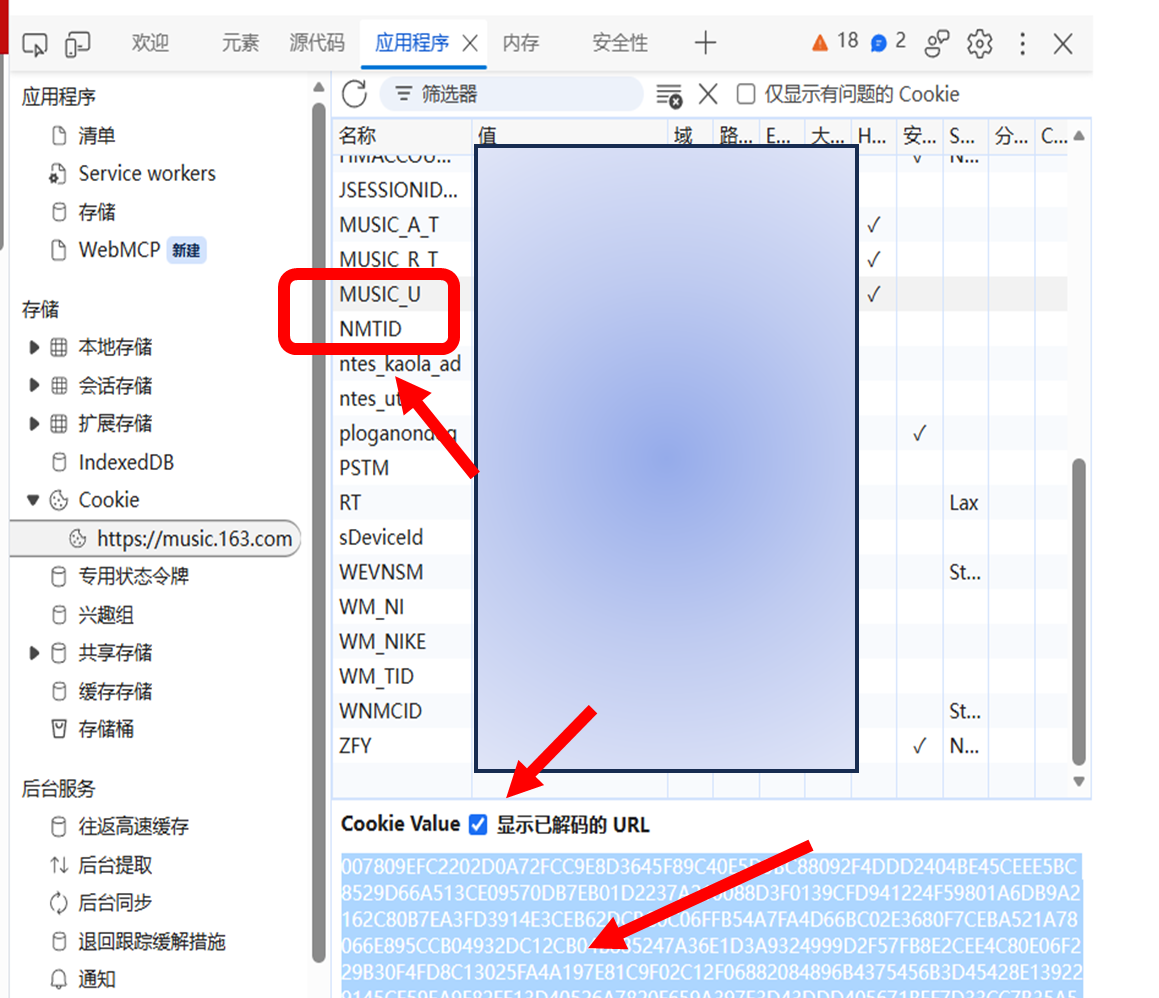
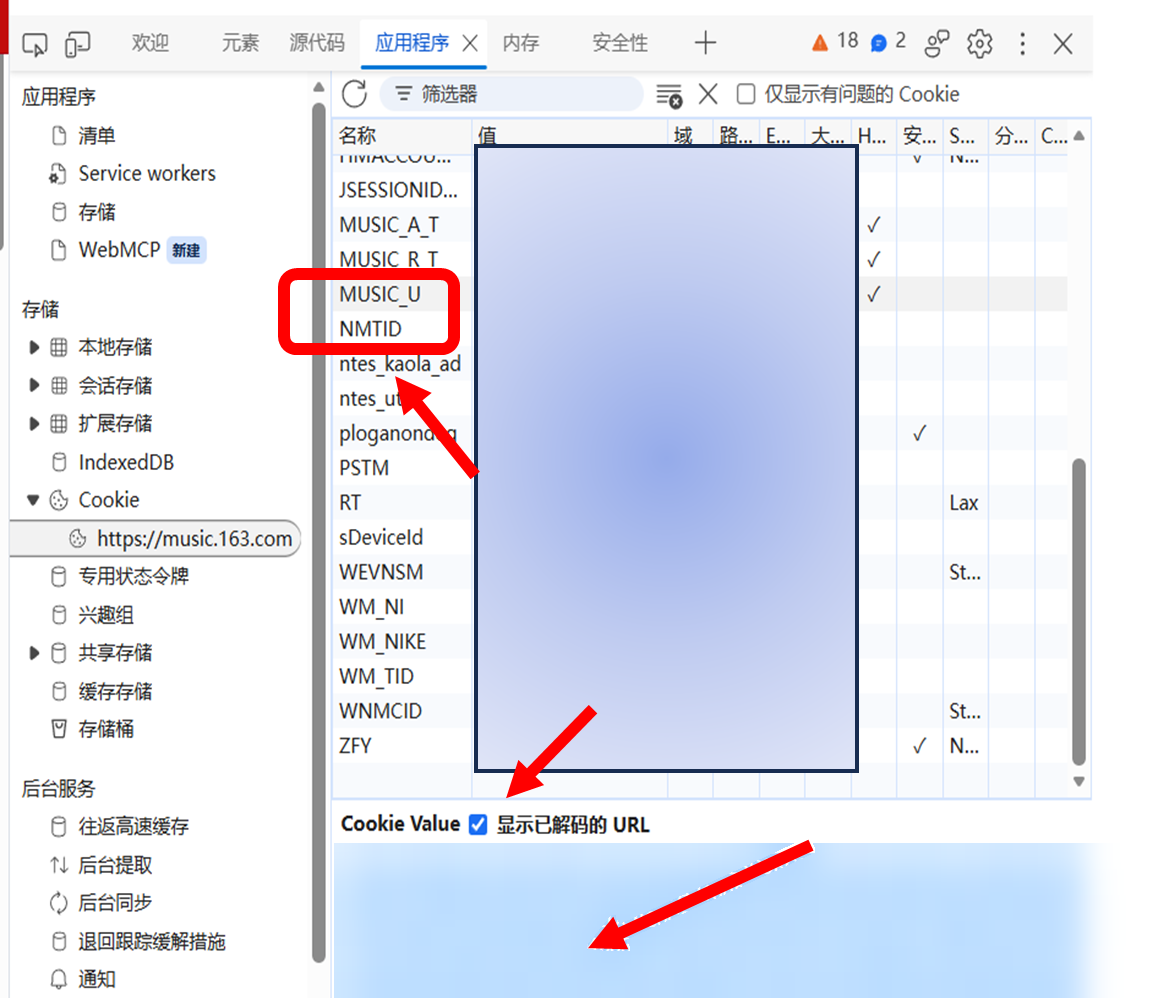
fix(credentials): 处理凭证中心评审意见（#2745）
- 抹掉 step-5 截图底部 Cookie Value 面板里的真实网易云凭证（codex P1），
  并补一条像素级契约测试挡住未脱敏截图再进来。
- cookieStringMode 平台（YouTube 要整条 Cookie 请求头）隐藏「逐字段复制
  Cookie Value」的通用教程入口，避免按教程粘错形状的凭证（codex P2）。
- 隐私遮罩期间顺延的成功/失败表情加 4s 上限，不再无限自我重排（coderabbit）。
- 选项卡补 aria-controls，面板补 role="tabpanel"（coderabbit）。
- pt.json 的 7 处 `Target:` 本地化为 `Destino:`（coderabbit）。
- YouTube 教程 HTML 结构契约从只测 zh-CN 扩到全部 8 个语言包（coderabbit）。

Changed region(s): [[0.2796, 0.8387, 0.9629, 1.0]]

diff --git a/templates/cookies_login.html b/templates/cookies_login.html
@@ -1389,22 +1389,22 @@
 
         <!-- Platform tab bar (uses same class names as JS expects) -->
         <div class="platform-bar tabs" role="tablist">
-            <button class="tab-btn active" onclick="switchTab('netease', this)" data-platform="netease" data-i18n="cookiesLogin.netease" role="tab" aria-selected="true">网易云音乐</button>
-            <button class="tab-btn" onclick="switchTab('bilibili', this)" data-platform="bilibili" data-i18n="cookiesLogin.bilibili" role="tab" aria-selected="false">Bilibili</button>
-            <button class="tab-btn" onclick="switchTab('xhh', this)" data-platform="xhh" data-i18n="cookiesLogin.xhh" role="tab" aria-selected="false">小黑盒</button>
-            <button class="tab-btn" onclick="switchTab('youtube', this)" data-platform="youtube" data-i18n="cookiesLogin.youtube" role="tab" aria-selected="false">YouTube</button>
-            <button class="tab-btn" onclick="switchTab('twitch', this)" data-platform="twitch" data-i18n="cookiesLogin.twitch" role="tab" aria-selected="false">Twitch</button>
-            <button class="tab-btn" onclick="switchTab('douyin', this)" data-platform="douyin" data-i18n="cookiesLogin.douyin" role="tab" aria-selected="false">抖音</button>
-            <button class="tab-btn" onclick="switchTab('kuaishou', this)" data-platform="kuaishou" data-i18n="cookiesLogin.kuaishou" role="tab" aria-selected="false">快手</button>
-            <button class="tab-btn" onclick="switchTab('weibo', this)" data-platform="weibo" data-i18n="cookiesLogin.weibo" role="tab" aria-selected="false">微博</button>
-            <button class="tab-btn" onclick="switchTab('twitter', this)" data-platform="twitter" data-i18n="cookiesLogin.twitter" role="tab" aria-selected="false">Twitter/X</button>
-            <button class="tab-btn" onclick="switchTab('reddit', this)" data-platform="reddit" data-i18n="cookiesLogin.reddit" role="tab" aria-selected="false">Reddit</button>
+            <button class="tab-btn active" onclick="switchTab('netease', this)" data-platform="netease" data-i18n="cookiesLogin.netease" role="tab" aria-controls="main-panel" aria-selected="true">网易云音乐</button>
+            <button class="tab-btn" onclick="switchTab('bilibili', this)" data-platform="bilibili" data-i18n="cookiesLogin.bilibili" role="tab" aria-controls="main-panel" aria-selected="false">Bilibili</button>
+            <button class="tab-btn" onclick="switchTab('xhh', this)" data-platform="xhh" data-i18n="cookiesLogin.xhh" role="tab" aria-controls="main-panel" aria-selected="false">小黑盒</button>
+            <button class="tab-btn" onclick="switchTab('youtube', this)" data-platform="youtube" data-i18n="cookiesLogin.youtube" role="tab" aria-controls="main-panel" aria-selected="false">YouTube</button>
+            <button class="tab-btn" onclick="switchTab('twitch', this)" data-platform="twitch" data-i18n="cookiesLogin.twitch" role="tab" aria-controls="main-panel" aria-selected="false">Twitch</button>
+            <button class="tab-btn" onclick="switchTab('douyin', this)" data-platform="douyin" data-i18n="cookiesLogin.douyin" role="tab" aria-controls="main-panel" aria-selected="false">抖音</button>
+            <button class="tab-btn" onclick="switchTab('kuaishou', this)" data-platform="kuaishou" data-i18n="cookiesLogin.kuaishou" role="tab" aria-controls="main-panel" aria-selected="false">快手</button>
+            <button class="tab-btn" onclick="switchTab('weibo', this)" data-platform="weibo" data-i18n="cookiesLogin.weibo" role="tab" aria-controls="main-panel" aria-selected="false">微博</button>
+            <button class="tab-btn" onclick="switchTab('twitter', this)" data-platform="twitter" data-i18n="cookiesLogin.twitter" role="tab" aria-controls="main-panel" aria-selected="false">Twitter/X</button>
+            <button class="tab-btn" onclick="switchTab('reddit', this)" data-platform="reddit" data-i18n="cookiesLogin.reddit" role="tab" aria-controls="main-panel" aria-selected="false">Reddit</button>
         </div>
 
         <!-- Main content card -->
         <div class="content-card">
 
-            <div class="tab-content" id="main-panel">
+            <div class="tab-content" id="main-panel" role="tabpanel" tabindex="0">
 
                 <!-- Tutorial entry -->
                 <a class="tutorial-link" href="/api/auth/guide" target="neko_credential_guide" onclick="return openCredentialGuide(event)">

diff --git a/static/js/cookies_login.js b/static/js/cookies_login.js
@@ -358,6 +358,8 @@ document.addEventListener('DOMContentLoaded', () => {
     const mascotButton = document.querySelector('.char-avatar-wrap');
     const mascotBubble = document.querySelector('.mascot-bubble');
     const reactionClasses = ['mascot-angry', 'mascot-success', 'mascot-failure', 'mascot-curious'];
+    const MASCOT_DEFERRED_RETRY_MS = 500;
+    const MASCOT_DEFERRED_MAX_MS = 4000;
     let mascotReactionTimer = null;
     let mascotDeferredTimer = null;
     let mascotBubbleTimer = null;
@@ -368,18 +370,41 @@ document.addEventListener('DOMContentLoaded', () => {
         reactionClasses.forEach(className => characterBanner?.classList.remove(className));
     };
 
+    const showMascotReaction = (type, duration) => {
+        clearMascotReaction();
+        characterBanner.classList.add(`mascot-${type}`);
+        mascotReactionTimer = window.setTimeout(clearMascotReaction, duration);
+    };
+
+    // 隐私遮罩期间把成功/失败反应顺延到失焦之后，但最多顺延 MASCOT_DEFERRED_MAX_MS：
+    // 不设上限的话，只要用户一直聚焦凭证输入框，定时器就会无限自我重排，
+    // 等失焦时弹出的是几分钟前那次保存的表情。
+    const deferMascotReaction = (type, duration, deadline) => {
+        window.clearTimeout(mascotDeferredTimer);
+        mascotDeferredTimer = null;
+        if (Date.now() >= deadline) return;
+        mascotDeferredTimer = window.setTimeout(() => {
+            mascotDeferredTimer = null;
+            if (!characterBanner) return;
+            if (characterBanner.classList.contains('credential-privacy-active')) {
+                deferMascotReaction(type, duration, deadline);
+                return;
+            }
+            showMascotReaction(type, duration);
+        }, MASCOT_DEFERRED_RETRY_MS);
+    };
+
     window.triggerMascotReaction = (type, duration = 900) => {
         if (!characterBanner) return;
         if (characterBanner.classList.contains('credential-privacy-active')) {
             if (type === 'success' || type === 'failure') {
-                window.clearTimeout(mascotDeferredTimer);
-                mascotDeferredTimer = window.setTimeout(() => window.triggerMascotReaction(type, duration), 500);
+                deferMascotReaction(type, duration, Date.now() + MASCOT_DEFERRED_MAX_MS);
             }
             return;
         }
-        clearMascotReaction();
-        characterBanner.classList.add(`mascot-${type}`);
-        mascotReactionTimer = window.setTimeout(clearMascotReaction, duration);
+        window.clearTimeout(mascotDeferredTimer);
+        mascotDeferredTimer = null;
+        showMascotReaction(type, duration);
     };
 
     mascotButton?.addEventListener('click', (event) => {
@@ -872,7 +897,11 @@ function switchTab(platformKey, btnElement, isReRender = false) {
     currentPlatform = platformKey;
     const config = PLATFORM_CONFIG[platformKey];
     const tutorialBanner = document.querySelector('#main-panel > .tutorial-link');
-    if (tutorialBanner) tutorialBanner.style.display = config.authMode ? 'none' : '';
+    // 通用教程教的是「在 Application 面板逐个字段复制 Cookie Value」，
+    // 对 cookieStringMode 平台（YouTube 要整条 Cookie 请求头）是错的流程，
+    // 这些平台改由自己的 instruction 文案指路，所以这里一并隐藏。
+    const hideTutorial = Boolean(config.authMode || config.cookieStringMode);
+    if (tutorialBanner) tutorialBanner.style.display = hideTutorial ? 'none' : '';
     const encryptRow = document.getElementById('encrypt-toggle')?.parentElement;
     if (encryptRow) encryptRow.style.display = config.authMode ? 'none' : '';
     // 更新选项卡文本

diff --git a/tests/unit/test_window_pin_static_contracts.py b/tests/unit/test_window_pin_static_contracts.py
@@ -173,6 +173,76 @@ def test_credentials_page_opens_the_universal_guide_in_a_named_window():
     assert "window.open(guideUrl.toString(), windowName, features)" in script
 
 
+def test_credentials_universal_guide_hides_for_cookie_string_platforms():
+    """通用教程教的是逐字段复制 Cookie Value，对整条 Cookie 请求头的平台是错流程。"""
+    script = read_text("static/js/cookies_login.js")
+
+    assert "cookieStringMode: true" in script
+    assert "const hideTutorial = Boolean(config.authMode || config.cookieStringMode);" in script
+    assert "tutorialBanner.style.display = hideTutorial ? 'none' : ''" in script
+
+
+def test_credentials_tabs_are_wired_to_the_single_tab_panel():
+    template = read_text("templates/cookies_login.html")
+
+    tab_buttons = re.findall(r'<button class="tab-btn[^>]*>', template)
+    assert len(tab_buttons) == 10
+    for button in tab_buttons:
+        assert 'role="tab"' in button, button
+        assert 'aria-controls="main-panel"' in button, button
+    assert re.search(
+        r'<div class="tab-content" id="main-panel"[^>]*role="tabpanel"', template
+    )
+
+
+def test_credentials_deferred_mascot_reaction_has_a_bounded_deadline():
+    """隐私遮罩期间顺延反应必须有上限，否则失焦时弹出的是几分钟前那次的表情。"""
+    script = read_text("static/js/cookies_login.js")
+
+    assert "const MASCOT_DEFERRED_MAX_MS = 4000;" in script
+    assert "deferMascotReaction(type, duration, Date.now() + MASCOT_DEFERRED_MAX_MS)" in script
+
+    defer_body = re.search(
+        r"const deferMascotReaction = \(type, duration, deadline\) => \{"
+        r"(?P<body>[\s\S]*?)\n    \};",
+        script,
+    )
+    assert defer_body
+    # 重排必须沿用同一个 deadline，重新取一次 Date.now() 等于上限失效。
+    assert "if (Date.now() >= deadline) return;" in defer_body.group("body")
+    assert "deferMascotReaction(type, duration, deadline);" in defer_body.group("body")
+    assert "Date.now() + MASCOT_DEFERRED_MAX_MS" not in defer_body.group("body")
+
+
+def test_credentials_guide_screenshot_keeps_no_readable_cookie_value():
+    """step-5 截图底部的 Cookie Value 面板必须是抹掉的，不能留真实凭证。"""
+    import numpy as np
+    from PIL import Image, ImageFilter
+
+    asset = PROJECT_ROOT / "static" / "images" / "cookies" / "guide" / "step-5-value.png"
+    with Image.open(asset) as image:
+        pane = image.convert("RGB").crop((334, 843, image.width, image.height))
+
+    rgb = np.asarray(pane).astype(int)
+    # 面板上压着红色标注箭头，它本来就是高对比度的，先连边缘一起排除。
+    red = (
+        (rgb[:, :, 0] > 140)
+        & (rgb[:, :, 1] < 110)
+        & (rgb[:, :, 2] < 110)
+        & (rgb[:, :, 0] - rgb[:, :, 1] > 60)
+    )
+    keep = ~np.asarray(
+        Image.fromarray((red * 255).astype("uint8")).filter(ImageFilter.MaxFilter(9))
+    ).astype(bool)
+
+    # 字形靠相邻像素的高对比度成立；抹干净之后剩下的只有平滑渐变。
+    gray = np.asarray(pane.convert("L")).astype(int)
+    horizontal = np.abs(np.diff(gray, axis=1))[keep[:, :-1] & keep[:, 1:]]
+    vertical = np.abs(np.diff(gray, axis=0))[keep[:-1, :] & keep[1:, :]]
+    contrast = int(max(horizontal.max(), vertical.max()))
+    assert contrast < 60, f"Cookie Value 面板仍有高对比度笔画（{contrast}）"
+
+
 def test_credentials_tutorial_link_has_distinct_interaction_states():
     template = read_text("templates/cookies_login.html")
 

diff --git a/tests/unit/test_youtube_feed.py b/tests/unit/test_youtube_feed.py
@@ -581,6 +581,18 @@ def test_youtube_cookie_i18n_contract_is_complete_for_all_locales():
         assert cookies_login_i18n["fields"]["youtubeCookie"]["label"]
         assert cookies_login_i18n["fields"]["youtubeCookie"]["desc"]
 
+        # 结构化步骤是语言无关的契约：只钉死 zh-CN 的话，别的语言包
+        # 悄悄退回旧的纯文本格式这条用例照样绿。
+        youtube_instruction = cookies_login_i18n["instructions"]["youtube"]
+        for marker in (
+            '<ol class="instruction-steps">',
+            "<b>F12</b>",
+            "<b>Network</b>",
+            "youtubei/v1/browse",
+            "<b>Request Headers</b>",
+        ):
+            assert marker in youtube_instruction, f"{locale_path.name}: {marker}"
+
     zh_instruction = json.loads(
         (locale_dir / "zh-CN.json").read_text(encoding="utf-8")
     )["cookiesLogin"]["instructions"]["youtube"]
